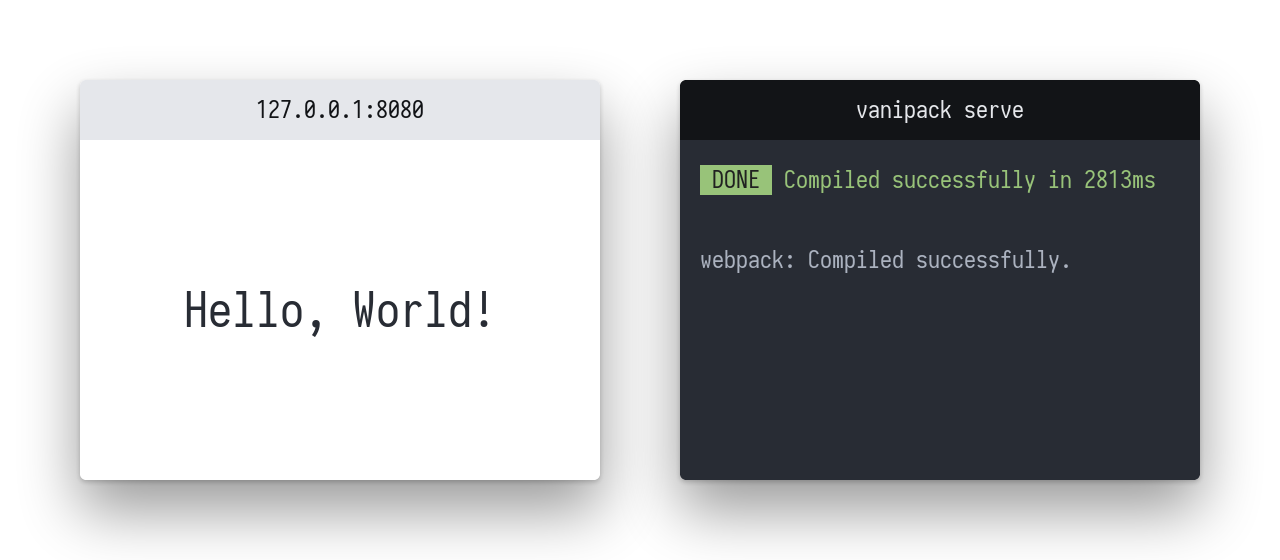
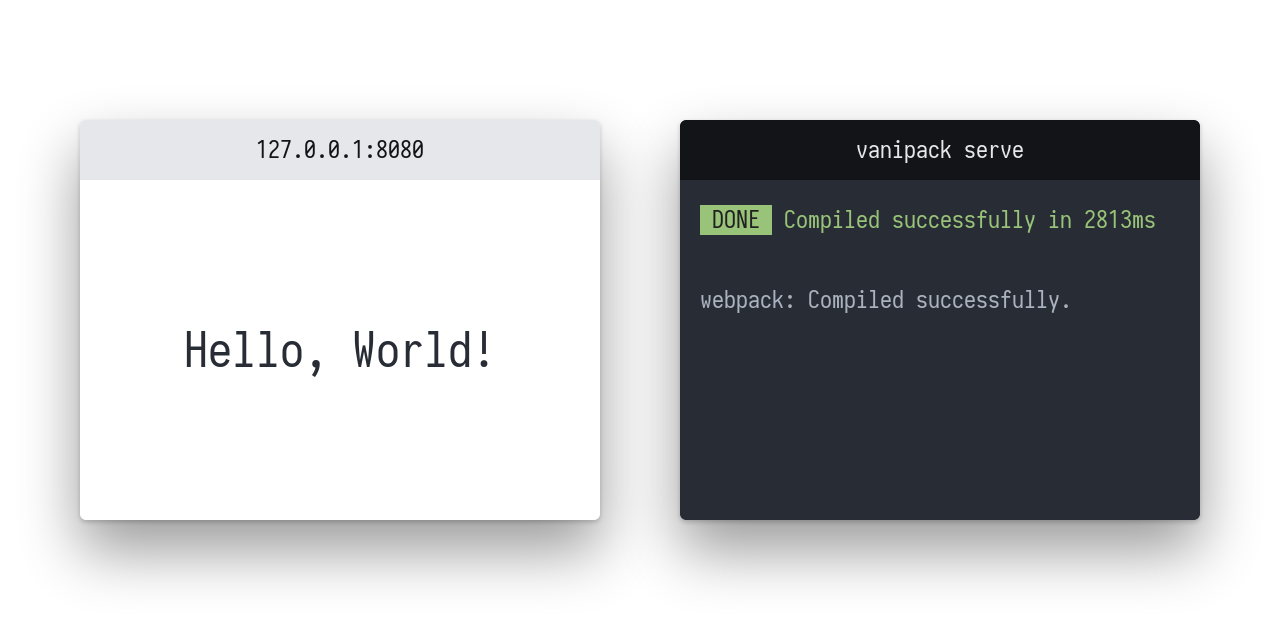
update vanipack/intro

diff --git a/vanipack/intro.html b/vanipack/intro.html
@@ -30,7 +30,7 @@ body {
 
 .box {
   display: flex;
-  padding: 20px;
+  padding: 40px 20px;
 }
 
 .window {
